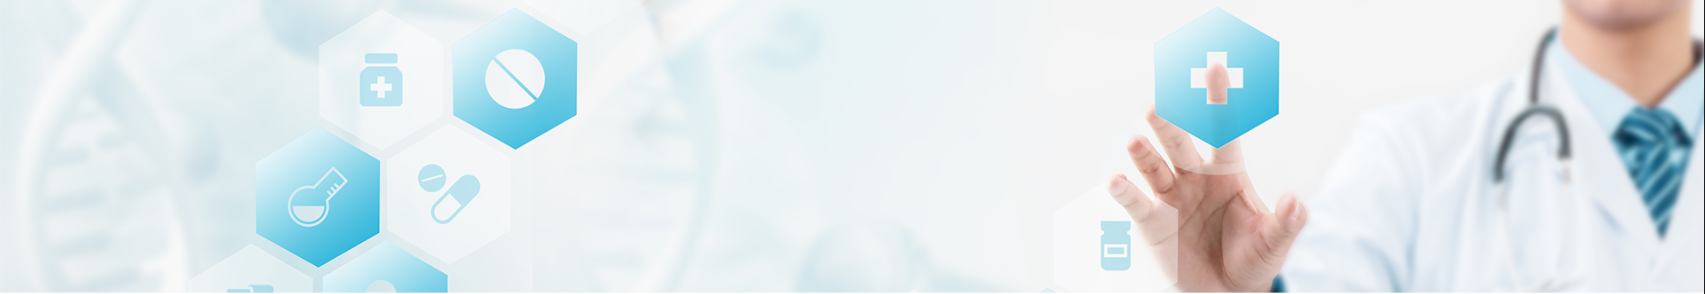
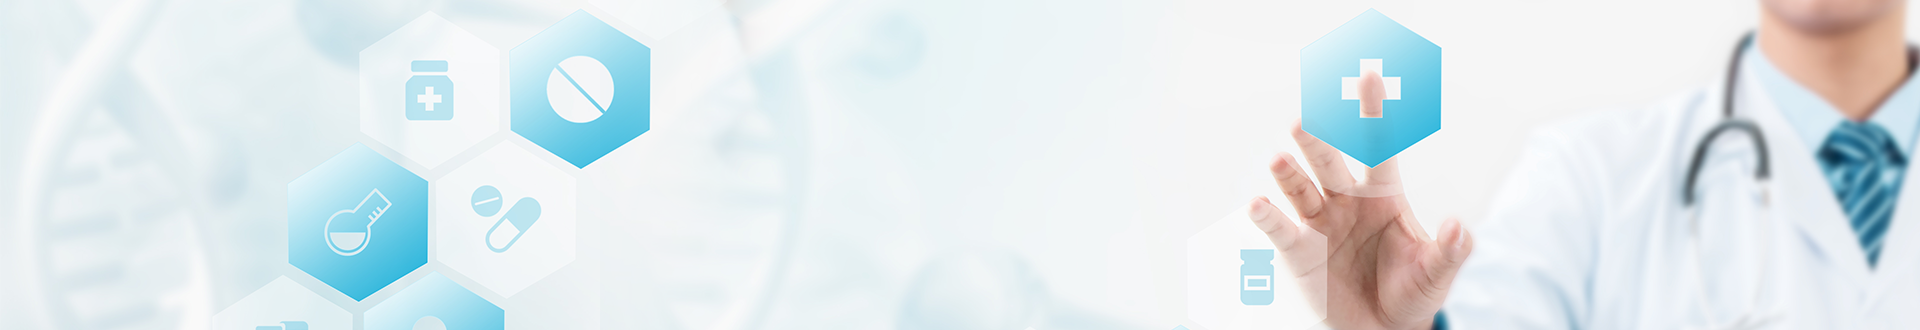
修改

diff --git a/20171016jiarun/index.html b/20171016jiarun/index.html
@@ -17,7 +17,7 @@
 					<li><a href="index.html" class="active">首页</a></li>
 					<li><a href="newDrugProduction.html">新药开发</a></li>
 					<li class="productCenterLi">
-						<a href="productCenter.html" class="active">产品中心</a>
+						<a href="productCenter.html">产品中心</a>
 						<div class="productDownBox">
 							<div class="productDown">
 								<label class="productDownTitle">2H标记（氘代）类</label>
@@ -47,7 +47,7 @@
 			<div class="banner">
 				<ul class="ulBox">
 					<li>
-						<a href="javascript:;">
+						<a href="index.html">
 							<img src="img/list_img01.png">
 							<div class="baner_txt">
 								<span class="bannerTxt1">提供创造性和有效的解决方案</span>
@@ -108,7 +108,7 @@
 							<label class="lab_line"></label>
 						</div>
 						<div class="aboutImgBox">
-							<img src="img/aboutImg.png" width="545px" />
+							<img src="img/aboutImg.png" width="545px" height="120px" />
 						</div>
 						<p>
 							Risen isotope是一家专业从事稳定性同位素产品合成及服务的科技公司，能够为您提供专业的稳定同位素产品、咨询以及量
@@ -118,14 +118,14 @@
 							先进的跨国企业管理理念。
 						</p>
 					</div>
-					<div class="contact_wrap">
+					<div class="contact_wrap" style="margin-top: 5px;">
 						<div class="titleBox">
 							<span class="znTxt">联系我们</span>
 							<i class="enTxt">/contact us</i>
 							<label class="lab_line"></label>
 						</div>
 						<div class="contactImgBox">
-							<img src="img/aboutImg.png" width="545px" />
+							<img src="img/contactImg.png" width="545px" height="120px" />
 						</div>
 						<p>公司地址：苏州工业园区星湖街218号生物纳米园A2楼322</p>
 						<p>邮编：215123</p>

diff --git a/20171016jiarun/newDrugProduction.html b/20171016jiarun/newDrugProduction.html
@@ -16,7 +16,7 @@
 					<li><a href="index.html">首页</a></li>
 					<li><a href="newDrugProduction.html" class="active">新药开发</a></li>
 					<li class="productCenterLi">
-						<a href="productCenter.html" class="active">产品中心</a>
+						<a href="productCenter.html">产品中心</a>
 						<div class="productDownBox">
 							<div class="productDown">
 								<label class="productDownTitle">2H标记（氘代）类</label>

diff --git a/20171016jiarun/newsCenter.html b/20171016jiarun/newsCenter.html
@@ -16,7 +16,7 @@
 					<li><a href="index.html" class="active">首页</a></li>
 					<li><a href="newDrugProduction.html">新药开发</a></li>
 					<li class="productCenterLi">
-						<a href="productCenter.html" class="active">产品中心</a>
+						<a href="productCenter.html">产品中心</a>
 						<div class="productDownBox">
 							<div class="productDown">
 								<label class="productDownTitle">2H标记（氘代）类</label>

diff --git a/20171016jiarun/newsDetails.html b/20171016jiarun/newsDetails.html
@@ -17,7 +17,7 @@
 					<li><a href="index.html" class="active">首页</a></li>
 					<li><a href="newDrugProduction.html">新药开发</a></li>
 					<li class="productCenterLi">
-						<a href="productCenter.html" class="active">产品中心</a>
+						<a href="productCenter.html">产品中心</a>
 						<div class="productDownBox">
 							<div class="productDown">
 								<label class="productDownTitle">2H标记（氘代）类</label>

diff --git a/20171016jiarun/applicationField.html b/20171016jiarun/applicationField.html
@@ -17,7 +17,7 @@
 					<li><a href="index.html">首页</a></li>
 					<li><a href="newDrugProduction.html">新药开发</a></li>
 					<li class="productCenterLi">
-						<a href="productCenter.html" class="active">产品中心</a>
+						<a href="productCenter.html">产品中心</a>
 						<div class="productDownBox">
 							<div class="productDown">
 								<label class="productDownTitle">2H标记（氘代）类</label>

diff --git a/20171016jiarun/contact.html b/20171016jiarun/contact.html
@@ -20,7 +20,7 @@
 					<li><a href="index.html">首页</a></li>
 					<li><a href="newDrugProduction.html">新药开发</a></li>
 					<li class="productCenterLi">
-						<a href="productCenter.html" class="active">产品中心</a>
+						<a href="productCenter.html">产品中心</a>
 						<div class="productDownBox">
 							<div class="productDown">
 								<label class="productDownTitle">2H标记（氘代）类</label>

diff --git a/20171016jiarun/serviceCenter.html b/20171016jiarun/serviceCenter.html
@@ -16,7 +16,7 @@
 					<li><a href="index.html">首页</a></li>
 					<li><a href="newDrugProduction.html">新药开发</a></li>
 					<li class="productCenterLi">
-						<a href="productCenter.html" class="active">产品中心</a>
+						<a href="productCenter.html">产品中心</a>
 						<div class="productDownBox">
 							<div class="productDown">
 								<label class="productDownTitle">2H标记（氘代）类</label>

diff --git a/20171016jiarun/css/index.css b/20171016jiarun/css/index.css
@@ -147,10 +147,6 @@ a:hover{
 	height: 100%;
 	position: relative;
 }
-.ulBox>li>a>img{
-	height: 100%;
-	width: 100%;
-}
 .quare_ul{
 	position: absolute;
 	left: 50%;
